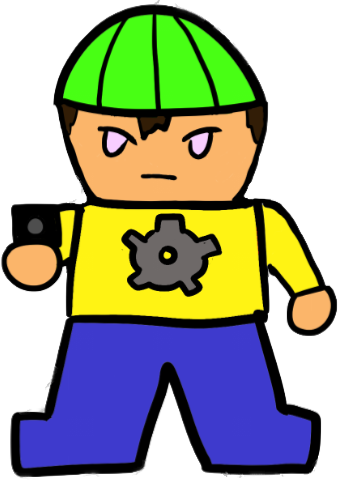
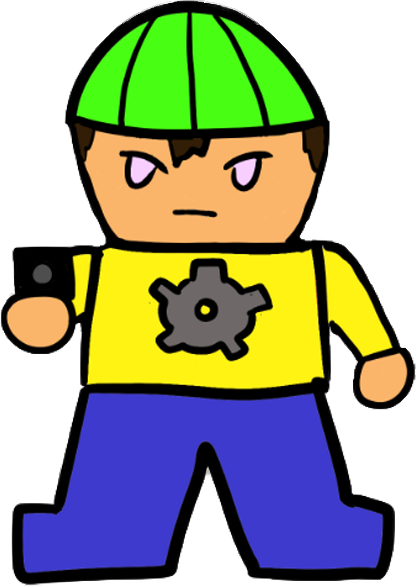
크기 조정, 이동 범위 제약

diff --git a/stage1.py b/stage1.py
@@ -3,19 +3,29 @@ import pygame
 import stage_template
 import random
 
+
+
 def move_user(ch, game):
     # ch.pos[0] += ch.move_factor
     ch.pos[0] += ch.move_factor_x 
     ch.pos[1] += ch.move_factor_y 
 
-    if ch.pos[1] < -61:
-        ch.pos[1] = -61
-     
+    print(ch.pos[0])
+
+    if ch.pos[1] < 208:
+        ch.pos[1] = 208
+    if ch.pos[1] > 620:
+         ch.pos[1] = 620
+    if ch.pos[0] < 8.5:
+        ch.pos[0] = 8.5
+    if ch.pos[0] > 860:
+        ch.pos[0] = 860
+
     #if ch.curr_state == 0 and ch.pos[0] > game.display_size[0]:
         #ch.pos[0] = -ch.size[ch.curr_state][0]
     #elif ch.curr_state == 1 and ch.pos[0] + ch.size[ch.curr_state][0] < 0:
         #ch.pos[0] = game.display_size[0]
-    speed = 5
+    speed = 3
     if ch.move_state == True:
         ch.change_count += 1
     
@@ -78,7 +88,14 @@ def move_user(ch, game):
 
 def user_start(ch, game):
     ch.pos = [ (game.display_size[0]-ch.size[ch.curr_state][0])/2, game.display_size[1]-ch.size[ch.curr_state][1]-10 ]
-    
+
+def user_resize(ch):
+    # image_boss = pygame.image.load("/image/exboss.svg")
+    l = len(ch.image)
+    for i in range(0, l):
+        ch.image[i] = pygame.transform.rotozoom(ch.image[i], 0, 0.3)
+        # size variable change
+        ch.size[i] = ch.image[i].get_rect().size
 
 # def boss_moving(ch, game):
 #     ch.pos[0] += ch.move_factor
@@ -146,7 +163,7 @@ def stage1(name, path, fps, speed):
     # # function list : A function of all actions that can be done as a character, including initialization.
     # #                 [move, positioning, attack, image transform] - if it doesn't exist -> None
     # # group : There are user groups(0) and monster groups(1) in the game.
-    ch_info_list = [ ("user", [ "/image/오른1.png", "/image/왼1.png", "/image/앞1.png", "/image/뒤1.png" ,"/image/오른2.png", "/image/오른3.png", "/image/왼2.png","/image/왼3.png","/image/앞2.png", "/image/앞3.png", "/image/뒤2.png","/image/뒤3.png"], [ move_user, user_start, None, None ], 0),
+    ch_info_list = [ ("user", [ "/image/오른1.png", "/image/왼1.png", "/image/앞1.png", "/image/뒤1.png" ,"/image/오른2.png", "/image/오른3.png", "/image/왼2.png","/image/왼3.png","/image/앞2.png", "/image/앞3.png", "/image/뒤2.png","/image/뒤3.png"], [ move_user, user_start, None, user_resize ], 0),
                      ("boss_arm2", [ "/image/fist_lv_+2.png", "/image/fist_lv_+1.png", "/image/fist_lv.png", "/image/fist_lv_-1.png" ], [ arm_move, arm2_start, None, arm_trans ], 1),
                      ("boss_arm3", [ "/image/reverse_fist_lv_+2.png", "/image/reverse_fist_lv_+1.png", "/image/reverse_fist_lv.png", "/image/reverse_fist_lv_-1.png" ], [ arm_move, arm3_start, None, arm_trans ], 1),
                      ("boss", [ "/image/exboss.svg" ], [ None, boss_start, None, boss_resize ], 1),

diff --git a/main.py b/main.py
@@ -10,7 +10,6 @@ pygame.init
 path = os.path.dirname(os.path.realpath(__file__))
 gname_image = pygame.image.load(path + "/image/start_gname.jpg")
 bg_image = pygame.image.load(path + "/image/start_background.jpg")
-# start button으로 바꾸어도 좋을 것 같으니 상의해서 결정해보세요
 bt_image_st1_up = pygame.image.load(path + "/image/start_button_stage1_up.jpg")
 bt_image_st1_down = pygame.image.load(path + "/image/start_button_stage1_down.jpg")
 
